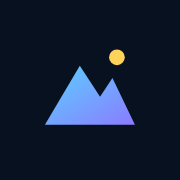
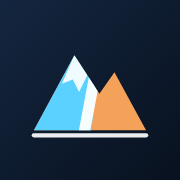
Karta miejsca z banerem, nowa ikona i ekran startowy
Claude-Session: https://claude.ai/code/session_01ES9TFY7kUi4Q1hgnyGR6o4

Changed region(s): [[0.1667, 0.3056, 0.8333, 0.7778], [0.0, 0.0, 0.5, 0.4722], [0.5833, 0.25, 0.6944, 0.3611]]

diff --git a/index.html b/index.html
@@ -341,6 +341,22 @@ body.light .hike .bd .d0{background:rgba(15,158,114,.14);color:#0a7a56}body.ligh
 #fx.sun{background:radial-gradient(ellipse 60% 120% at 100% 0%,rgba(255,214,130,.22),transparent 65%),repeating-conic-gradient(from 200deg at 100% 0%,rgba(255,226,160,.09) 0 5deg,transparent 5deg 14deg);-webkit-mask-image:radial-gradient(ellipse 90% 140% at 100% 0%,#000 10%,transparent 75%);mask-image:radial-gradient(ellipse 90% 140% at 100% 0%,#000 10%,transparent 75%);animation:sunb 9s ease-in-out infinite alternate}
 @keyframes sunb{from{opacity:.65}to{opacity:1}}
 body.light #fx.sun{background:radial-gradient(ellipse 60% 120% at 100% 0%,rgba(255,190,80,.3),transparent 65%),repeating-conic-gradient(from 200deg at 100% 0%,rgba(255,200,110,.14) 0 5deg,transparent 5deg 14deg)}
+.hero.pban{overflow:hidden;border-radius:18px;padding:18px 44px 16px 16px;min-height:104px;margin-top:2px;color:#fff;align-items:flex-end}
+.hero.pban .pbs{position:absolute;left:0;right:0;bottom:0;width:100%;height:62%;pointer-events:none}
+.hero.pban .pbsun{position:absolute;right:46px;top:16px;width:34px;height:34px;border-radius:50%;background:radial-gradient(circle,#ffe7a8 0,#ffc65c 55%,rgba(255,198,92,0) 72%);opacity:.9}
+.hero.pban>*:not(.pbs):not(.pbsun){position:relative;z-index:1}
+.hero.pban .flg{background:rgba(255,255,255,.18);backdrop-filter:blur(4px)}
+.hero.pban h2{font-family:var(--fd);font-weight:700;font-size:28px;text-transform:uppercase;letter-spacing:.02em;line-height:1.02;text-shadow:0 2px 10px rgba(0,0,0,.35)}
+.hero.pban .meta{color:rgba(255,255,255,.82);text-shadow:0 1px 6px rgba(0,0,0,.35)}
+.hero.pban .gpill{margin-left:0;color:#fff;background:rgba(255,255,255,.16);border-color:rgba(255,255,255,.3)}
+.hero.pban .hgear{top:10px;right:10px;background:rgba(0,0,0,.25);border-color:rgba(255,255,255,.25);color:#fff}
+.offl{display:flex;justify-content:space-between;align-items:center;margin:8px 0 4px;padding:11px 14px;border-radius:13px;background:var(--accentbg);border:1px solid var(--line);color:var(--accent);text-decoration:none;font-weight:700;font-size:14px}
+@media(min-width:720px){#sheet .hero.pban{min-height:150px;padding:26px 56px 22px 22px}#sheet .hero.pban h2{font-size:42px}}
+#splash{position:fixed;inset:0;z-index:99999;display:none;flex-direction:column;align-items:center;justify-content:center;gap:18px;background:#08111f;transition:opacity .45s ease}
+body.spl #splash{display:flex}#splash.out{opacity:0;pointer-events:none}
+#splash .spi{width:104px;height:104px;border-radius:26px;overflow:hidden;animation:spin .7s cubic-bezier(.2,.8,.2,1) both}#splash svg{width:100%;height:100%;display:block}
+#splash .spt{font-family:var(--fd,"Barlow Condensed",sans-serif);font-weight:600;font-size:26px;letter-spacing:.14em;text-transform:uppercase;color:#cfe3ff}#splash .spt b{font-weight:700;color:#fff}#splash .spt i{font-style:normal;color:#f4a259}
+@keyframes spin{from{transform:translateY(14px) scale(.9);opacity:0}to{transform:none;opacity:1}}
 </style>
 </head>
 <body>
@@ -1445,6 +1461,16 @@ function setSzRating(sk, n){
   const v = visits[curId]; if (!v || !v.sz || !v.sz[sk]) return;
   v.sz[sk].r = (v.sz[sk].r === n) ? 0 : n; scheduleSave(); renderAll(); renderSheet();
 }
+function hsh(str){ let h = 2166136261; for (let i = 0; i < str.length; i++) { h ^= str.charCodeAt(i); h = Math.imul(h, 16777619); } return h >>> 0; }
+function banner(r, W){
+  const h = hsh(r.id || r.n), rnd = k => ((h >>> (k * 3)) & 255) / 255;
+  const hue = W ? 205 + Math.round(rnd(0) * 70) : 18 + Math.round(rnd(0) * 120);
+  const a = W ? `hsl(${hue},58%,30%)` : `hsl(${hue},48%,30%)`, b = W ? `hsl(${hue + 24},62%,15%)` : `hsl(${hue + 16},52%,14%)`;
+  const ridge = (seed, base, amp, n) => { let p = `M0 100 L0 ${base}`; for (let i = 1; i <= n; i++) { const x = Math.round(i * 400 / n), y = Math.round(base - amp * (((h >>> ((seed + i) % 24)) & 15) / 15)); p += ` L${x} ${y}`; } return p + " L400 100 Z"; };
+  const svg = `<svg class="pbs" viewBox="0 0 400 100" preserveAspectRatio="none" aria-hidden="true"><path d="${ridge(1, 66, 46, 7)}" fill="rgba(255,255,255,${W ? .16 : .1})"/><path d="${ridge(5, 82, 34, 9)}" fill="rgba(0,0,0,.28)"/></svg>`;
+  const sun = W ? "" : `<i class="pbsun"></i>`;
+  return { st: `background:linear-gradient(155deg,${a},${b})`, html: sun + svg };
+}
 function renderSheet(){
   const r = byId[curId]; if (!r) return; const v = visits[curId], W = MODE === "w";
   const tags = W ? r.g.map(g => `<span>${esc(g)}</span>`).join("") : "";
@@ -1494,8 +1520,9 @@ function renderSheet(){
   const t1 = W ? `<div class="tile"><b>${Math.round(r.k*10)/10}</b><span>km tras zjazdowych</span></div>` : `<div class="tile"><b>${liveN(r)}</b><span>szlaków poniżej</span></div>`;
   const gpill = (W && r.g.length) ? `<span class="gpill">${esc(r.g[r.g.length-1])}</span>` : "", t2 = W ? "" : `<div class="tile"><b>${v ? Object.keys(v.done).length : 0}/${liveN(r)}</b><span>zrobionych</span></div>`;
   $("sheet").innerHTML = `<div class="grab"></div>
-    <div class="hero"><div class="flg">${flag(r.c.split(",")[0])}</div><div><h2>${esc(r.n)}${gpill}</h2><div class="meta">${r.c.split(",").map(c => esc(cname(c))).join(", ")}${(SBC && ratingLine(r.id)) ? " · " + ratingLine(r.id) : ""}</div></div><button class="hgear" id="hgear" title="Opcje">⚙</button></div>
-    <div class="tiles">${t1}${t2}${W && r.e ? `<div class="tile"><b>${r.e} m</b><span>najwyższy punkt</span></div>` : `<div class="tile"><b>${r.c.split(",").length > 1 ? r.c.replace(/,/g," / ") : esc(r.c)}</b><span>kraj</span></div>`}</div>
+    ${(() => { const bn = banner(r, W); return `<div class="hero pban" style="${bn.st}">${bn.html}<div class="flg">${flag(r.c.split(",")[0])}</div><div class="pbt"><h2>${esc(r.n)}</h2><div class="meta">${r.c.split(",").map(c => esc(cname(c))).join(", ")}${r.r ? " · " + esc(r.r) : ""}${(SBC && ratingLine(r.id)) ? " · " + ratingLine(r.id) : ""}</div>${gpill ? `<div style="margin-top:6px">${gpill}</div>` : ""}</div><button class="hgear" id="hgear" title="Opcje">⚙</button></div>`; })()}
+    <div class="tiles">${t1}${t2}${W && r.e ? `<div class="tile"><b>${r.e} m</b><span>najwyższy punkt</span></div>` : W ? "" : (() => { const L = r.hikes.filter(x => !x.del), c = [0,1,2].map(i => L.filter(x => x.d === DIFF[i]).length); return `<div class="tile"><b>${c[0]}·${c[1]}·${c[2]}</b><span>łatwe · średnie · trudne</span></div>`; })()}</div>
+    <a class="offl" target="_blank" rel="noopener" href="${href}">${W ? (r.w ? "Oficjalna strona ośrodka" : "Ceny karnetów i informacje") : "Szlaki, mapy i informacje"} <span>↗</span></a>
     ${(W && r.auto && !RO && SBC) ? `<div class="small" style="margin:8px 2px;color:var(--warn)">⚠ Kilometry tras i wysokość dodane automatycznie, możliwe błędy. <button class="btn sm" id="sgfix" style="margin-left:4px">Zaproponuj poprawę</button></div>` : (W && r.auto) ? `<div class="small" style="margin:8px 2px;color:var(--warn)">⚠ Kilometry tras i wysokość dodane automatycznie, możliwe błędy.</div>` : ""}${top}${opblock}${hikes}${szsec}${body}
     <div style="margin-top:12px"><button class="btn" id="sclose" style="width:100%">Zamknij</button></div>`;
   $("sclose").onclick = closeSheet;
@@ -2151,5 +2178,5 @@ initStore(); startI18n();
 
 try { applyTheme(); buildFx(); matchMedia('(prefers-color-scheme: light)').addEventListener('change', applyTheme); } catch(e){}
 </script>
-<script>if("serviceWorker" in navigator && location.protocol.indexOf("http")===0) window.addEventListener("load",()=>navigator.serviceWorker.register("sw.js").catch(()=>{}));</script></body>
+<div id="splash"><div class="spi"><svg xmlns="http://www.w3.org/2000/svg" viewBox="0 0 512 512"><defs><linearGradient id="sbg" x1="0" y1="0" x2="1" y2="1"><stop offset="0" stop-color="#14263f"/><stop offset="1" stop-color="#08111f"/></linearGradient><clipPath id="sm"><path d="M40 410 L196 120 L292 268 L350 186 L472 410 Z"/></clipPath><clipPath id="sl"><path d="M0 0H300L252 512H0Z"/></clipPath></defs><rect width="512" height="512" rx="112" fill="url(#sbg)"/><g transform="translate(256 266) scale(.9) translate(-256 -266)"><g clip-path="url(#sm)"><rect width="512" height="512" fill="#f4a259"/><rect width="512" height="512" fill="#5ad1ff" clip-path="url(#sl)"/><path d="M196 120 L148 230 L190 214 L214 262 L246 196 Z" fill="#fff" opacity=".9" clip-path="url(#sl)"/><path d="M286 20 L330 20 L238 512 L194 512 Z" fill="#fff" opacity=".95"/></g><path d="M40 428H472" stroke="#fff" stroke-width="16" stroke-linecap="round" opacity=".92"/></g></svg></div><div class="spt"><b>Skied</b> <i>&amp;</i> <b>Hiked</b> there</div></div><script>try{ const sp=document.getElementById("splash"); if(sp){ if(matchMedia("(display-mode: standalone)").matches||navigator.standalone){ document.body.classList.add("spl"); setTimeout(()=>{sp.classList.add("out"); setTimeout(()=>sp.remove(),500);},900); } else sp.remove(); } }catch(e){}</script><script>if("serviceWorker" in navigator && location.protocol.indexOf("http")===0) window.addEventListener("load",()=>navigator.serviceWorker.register("sw.js").catch(()=>{}));</script></body>
 </html>

diff --git a/sw.js b/sw.js
@@ -1,4 +1,4 @@
-const C = "sht-v1", SHELL = ["./", "manifest.webmanifest", "icon-192.png", "icon-512.png"];
+const C = "sht-v2", SHELL = ["./", "manifest.webmanifest", "icon-192.png", "icon-512.png"];
 self.addEventListener("install", e => { e.waitUntil(caches.open(C).then(c => c.addAll(SHELL)).then(() => self.skipWaiting())); });
 self.addEventListener("activate", e => { e.waitUntil(caches.keys().then(ks => Promise.all(ks.filter(k => k !== C).map(k => caches.delete(k)))).then(() => self.clients.claim())); });
 self.addEventListener("fetch", e => {
